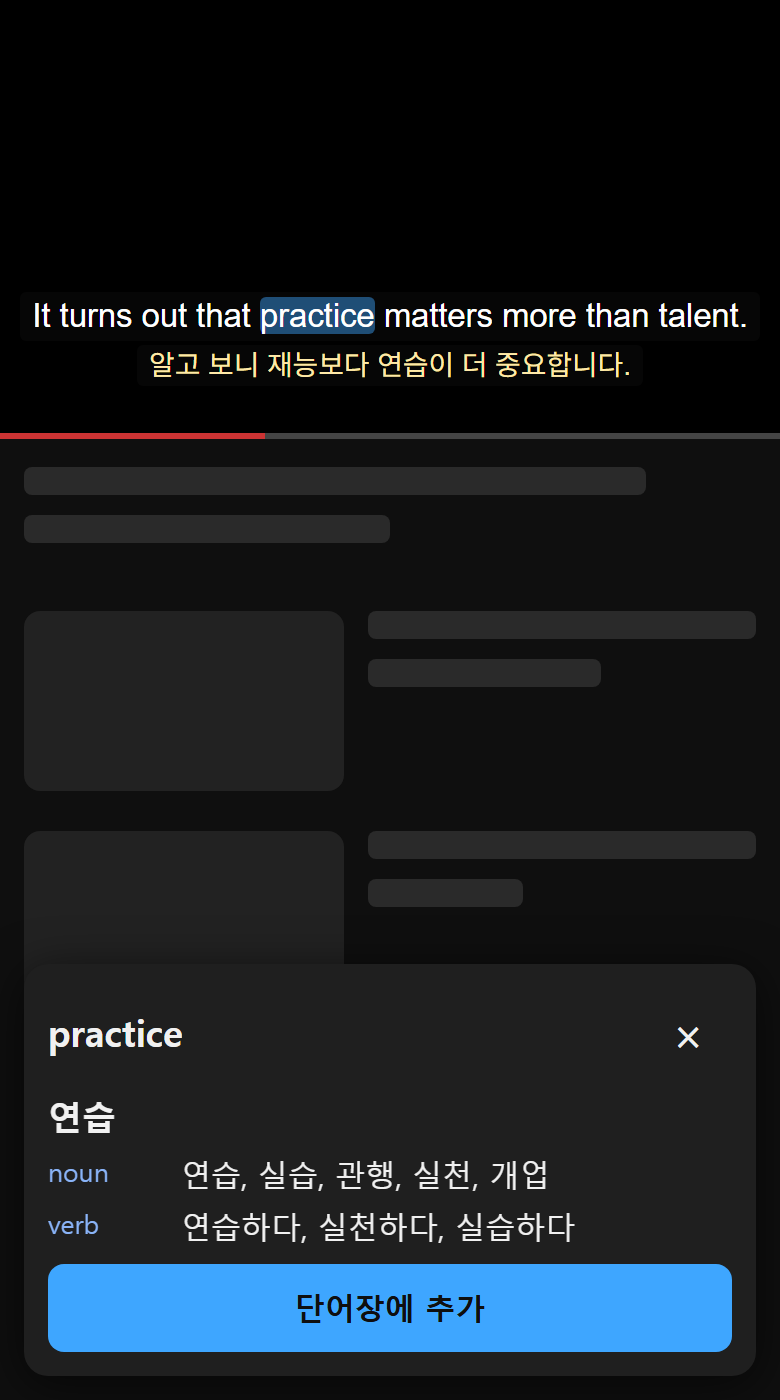
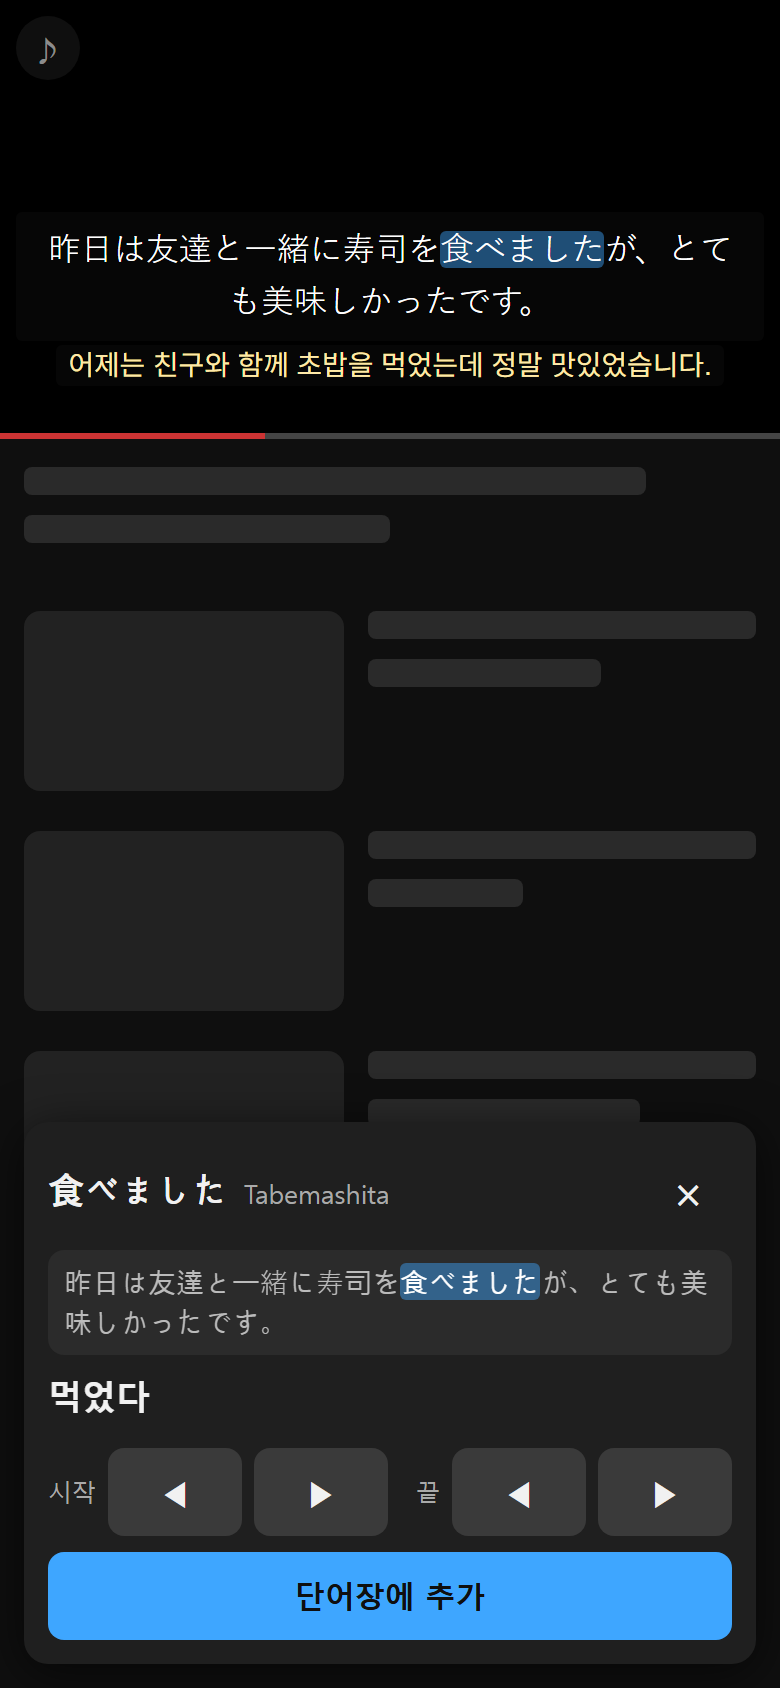
README 정리, 설치 파일 링크 추가

diff --git a/README.md b/README.md
@@ -1,64 +1,55 @@
 # SubAudioOnly
 
-팟캐스트처럼 YouTube를 들으며 외국어를 공부하기 위한 Firefox(Android) 익스텐션입니다.
+유튜브를 팟캐스트처럼 틀어 놓고 외국어 공부할 때 쓰려고 만든 Firefox 확장입니다. 안드로이드 Firefox 기준으로 만들었고 데스크톱에서도 돌아갑니다.
 
-- **오디오 전용 재생** — 영상은 불러오지 않고 소리만 재생합니다. 화면에는 검은 배경과 자막만 남습니다.
-- **이중 자막** — 학습 언어와 자국어 자막을 함께 보여 줍니다. 한쪽 자막만 있으면 YouTube 자동번역으로 채웁니다.
-- **단어 사전** — 자막의 단어를 탭하면 자국어 뜻이 나옵니다.
-- **단어장** — 찾아본 단어를 저장하고, 마크다운 표로 복사해 노션 등에 붙여넣을 수 있습니다.
+영상은 안 받고 소리만 틀어 주고, 화면에는 자막 두 줄(학습 언어 + 내 언어)만 남깁니다. 모르는 단어는 눌러서 뜻을 보고 단어장에 담아 두면 됩니다.
 
-| 이중 자막 | 사전 | 설정 | 단어장 |
+| 자막 | 사전 | 영상 단어 목록 | 단어장 |
 | --- | --- | --- | --- |
-| ![이중 자막](docs/screenshots/subtitles.png) | ![사전](docs/screenshots/dictionary.png) | ![설정](docs/screenshots/options.png) | ![단어장](docs/screenshots/vocab.png) |
+| ![자막과 빠른 스위치](docs/screenshots/subtitles.png) | ![사전 팝업](docs/screenshots/dictionary.png) | ![단어 목록](docs/screenshots/words.png) | ![단어장](docs/screenshots/vocab.png) |
 
-## 상태
+## 설치
 
-아직 실제 기기에서 검증하지 못한 초기 버전입니다. 단위 테스트와 린트만 통과한 상태이고, YouTube 쪽 변경에 따라 오디오 전용 재생이나 자막 로딩이 동작하지 않을 수 있습니다.
+**[subaudioonly.xpi 내려받기](https://github.com/8p4dev/SubAudioOnly/releases/latest/download/subaudioonly.xpi)** (Mozilla 서명본, Firefox 125 이상)
 
-## 설치 (개발용)
+안드로이드
 
-Firefox 125 이상이 필요합니다.
+1. 위 파일을 폰에 받습니다.
+2. Firefox 설정 > Firefox 정보에서 로고를 다섯 번 누르면 디버그 메뉴가 켜집니다.
+3. 설정으로 돌아가 "파일에서 확장 기능 설치"를 누르고 받은 파일을 고릅니다.
 
-```sh
-# 데스크톱 Firefox에서 실행
-npx web-ext run -s extension
+데스크톱은 `about:addons` 톱니바퀴 메뉴의 "파일에서 부가 기능 설치"로 넣으면 됩니다.
 
-# Android (USB 디버깅 + Firefox Nightly)
-npx web-ext run -s extension --target=firefox-android --android-device=<기기 ID>
-```
+지난 버전은 [Releases](https://github.com/8p4dev/SubAudioOnly/releases)에 있습니다.
 
-## 설정
+## 쓰는 법
 
-툴바 버튼에서 기능을 켜고 끌 수 있고, 설정 페이지에서 아래 항목을 바꿀 수 있습니다.
+유튜브 영상을 열면 플레이어 왼쪽 위에 ♪ 버튼이 생깁니다. 누르면 스위치가 펼쳐집니다.
 
-| 항목 | 기본값 |
-| --- | --- |
-| 학습 언어 | 영어 |
-| 자국어 | 한국어 |
-| 오디오 전용 | 켜짐 |
-| 이중 자막 | 켜짐 |
-| 단어 클릭 사전 | 켜짐 |
-| 자막 크기 | 1.0배 |
+- 소리만 / 자막 / 사전: 각각 켜고 끄기
+- ≡ 단어: 이 영상 자막에 나오는 단어를 한꺼번에 보기
+
+자막에서 단어를 누르면 뜻이 뜹니다. 단어가 이상하게 잘렸으면 팝업의 ◀ ▶ 로 범위를 늘리거나 줄일 수 있어요. 일본어처럼 띄어쓰기가 없는 언어에서 특히 쓸 일이 많습니다.
+
+단어장은 툴바의 확장 버튼에서 열 수 있고, "마크다운 복사"를 누른 뒤 노션에 붙이면 표로 들어갑니다.
+
+학습 언어와 내 언어는 설정에서 바꿉니다. 기본값은 영어 → 한국어.
+
+## 알아둘 것
+
+- 영상에 원하는 언어 자막이 없으면 유튜브 자동번역으로 채웁니다. 자막이 아예 없는 영상에서는 아무것도 안 나옵니다.
+- 뜻은 Google 번역에서 가져옵니다. 누른 단어와 단어 목록의 단어가 Google로 전송됩니다. 그 밖의 설정과 단어장은 브라우저 안에만 저장됩니다.
+- 단어 목록의 뜻은 문맥 없이 번역한 거라 어색한 게 섞여 있습니다. 정확한 뜻은 단어를 눌러서 확인하세요.
+- 일본어 단어 묶기는 규칙 몇 개로 하는 거라 틀릴 때가 있습니다.
+- 유튜브가 구조를 바꾸면 소리만 재생이나 자막이 깨질 수 있습니다. 그럴 땐 ♪에서 해당 기능만 끄고 쓰면 됩니다.
 
 ## 개발
 
-빌드 과정과 의존성이 없는 순수 JS입니다.
+빌드 단계도 의존성도 없습니다. `extension/` 폴더가 그대로 확장입니다.
 
 ```sh
-npm test        # 단위 테스트 + 문법 검사
-npm run lint    # web-ext lint
-npm run build   # dist/ 에 zip 생성
+npx web-ext run -s extension   # 데스크톱 Firefox에서 바로 실행
+npm test
+npm run lint
+npm run build                  # dist/ 에 zip
 ```
-
-```
-extension/
-  shared/      설정, 메시지, 단어장 저장소
-  background/  사전 조회, 자막 요청 관찰
-  content/     오디오 전용, 자막 오버레이, 사전 팝업
-  options/ popup/ vocab/   설정 · 빠른 토글 · 단어장 페이지
-```
-
-## 참고
-
-- 사전은 Google 번역의 비공식 엔드포인트를 사용합니다. 탭한 단어가 Google로 전송되며, 요청이 많으면 일시적으로 막힐 수 있습니다.
-- 설정과 단어장은 브라우저 로컬 저장소에만 저장됩니다.
